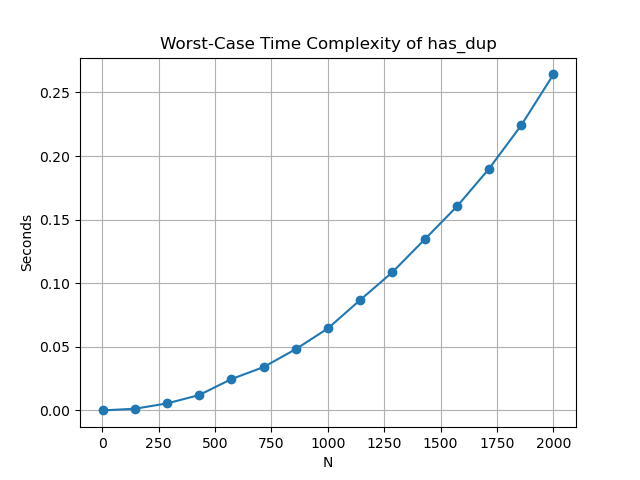
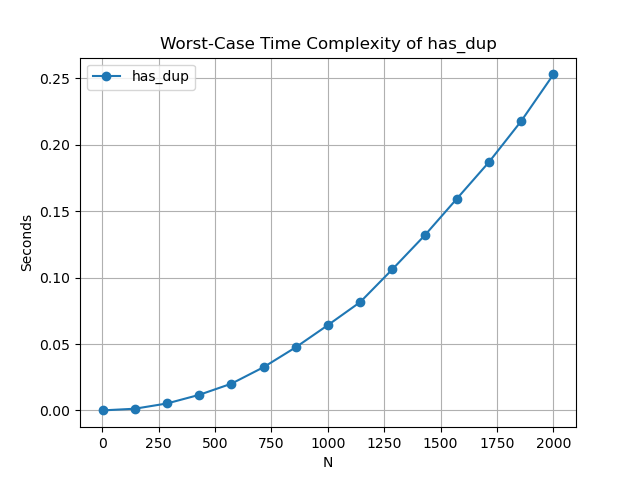
done

diff --git a/plots.py b/plots.py
@@ -8,38 +8,78 @@ def make_n_values(n_max: int) -> list[int]:
     return [round(1 + i * (n_max - 1) / 14) for i in range(15)]
 
 
-# Returns the average runtime in seconds of has_dup on
-# a worst-case linked list of size n.
-def time_has_dup(n: int) -> float:
+# Returns a descending linked list from n down to 1.
+def make_descending_list(n: int) -> functions.LinkedList:
+    if n == 0:
+        return functions.Empty()
+    return functions.Link(n, make_descending_list(n - 1))
+
+
+# Returns the average runtime of a function across 4 trials.
+def average_time(f) -> float:
     total = 0.0
 
     for trial in range(4):
-        nums = functions.range(n)
-
         start_time = time.perf_counter()
-        functions.has_dup(nums)
+        f()
         end_time = time.perf_counter()
 
         total += end_time - start_time
-        print(f"  trial {trial + 1}/4 for n={n} done")
 
     return total / 4
 
 
-# Creates and displays a graph of the worst-case runtime
-# of has_dup as a function of N.
-def main() -> None:
-    # Adjust n_max until the largest input takes about 1.5–3 seconds.
-    n_max = 2000
-
+# Creates and saves the worst-case runtime graph for range.
+def plot_range() -> None:
+    n_max = 10000
     x_values = make_n_values(n_max)
     y_values = []
 
     for n in x_values:
-        print(f"Timing n={n}...")
-        seconds = time_has_dup(n)
-        y_values.append(seconds)
-        print(f"Average for n={n}: {seconds:.6f} seconds")
+        print(f"Timing range n={n}...")
+        y_values.append(average_time(lambda: functions.range(n)))
+
+    plt.plot(x_values, y_values, marker="o", label="range")
+    plt.title("Worst-Case Time Complexity of range")
+    plt.xlabel("N")
+    plt.ylabel("Seconds")
+    plt.grid(True)
+    plt.legend()
+    plt.savefig("worst_case_range.png")
+    plt.clf()
+
+
+# Creates and saves the worst-case runtime graph for occurs.
+def plot_occurs() -> None:
+    n_max = 10000
+    x_values = make_n_values(n_max)
+    y_values = []
+
+    for n in x_values:
+        nums = functions.range(n)
+        print(f"Timing occurs n={n}...")
+        y_values.append(average_time(lambda: functions.occurs(-1, nums)))
+
+    plt.plot(x_values, y_values, marker="o", label="occurs")
+    plt.title("Worst-Case Time Complexity of occurs")
+    plt.xlabel("N")
+    plt.ylabel("Seconds")
+    plt.grid(True)
+    plt.legend()
+    plt.savefig("worst_case_occurs.png")
+    plt.clf()
+
+
+# Creates and saves the worst-case runtime graph for has_dup.
+def plot_has_dup() -> None:
+    n_max = 2000
+    x_values = make_n_values(n_max)
+    y_values = []
+
+    for n in x_values:
+        nums = functions.range(n)
+        print(f"Timing has_dup n={n}...")
+        y_values.append(average_time(lambda: functions.has_dup(nums)))
 
     plt.plot(x_values, y_values, marker="o", label="has_dup")
     plt.title("Worst-Case Time Complexity of has_dup")
@@ -48,9 +88,37 @@ def main() -> None:
     plt.grid(True)
     plt.legend()
     plt.savefig("worst_case_has_dup.png")
-    plt.show()
+    plt.clf()
+
+
+# Creates and saves the worst-case runtime graph for insertion_sort.
+def plot_insertion_sort() -> None:
+    n_max = 2000
+    x_values = make_n_values(n_max)
+    y_values = []
+
+    for n in x_values:
+        nums = make_descending_list(n)
+        print(f"Timing insertion_sort n={n}...")
+        y_values.append(average_time(lambda: functions.insertion_sort(nums)))
+
+    plt.plot(x_values, y_values, marker="o", label="insertion_sort")
+    plt.title("Worst-Case Time Complexity of insertion_sort")
+    plt.xlabel("N")
+    plt.ylabel("Seconds")
+    plt.grid(True)
+    plt.legend()
+    plt.savefig("worst_case_insertion_sort.png")
+    plt.clf()
+
+
+# Generates all four required graphs.
+def main() -> None:
+    plot_range()
+    plot_occurs()
+    plot_has_dup()
+    plot_insertion_sort()
 
 
 if __name__ == "__main__":
     main()
-
